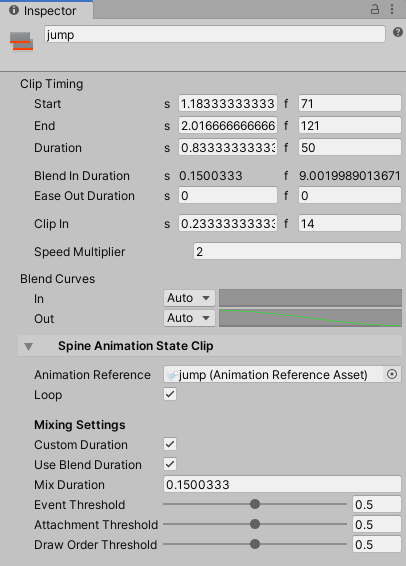
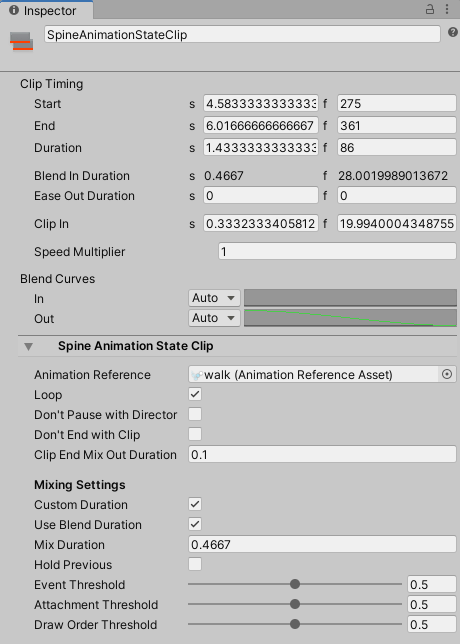
[unity] Timeline: Fixed Inspector cutting off last three parameters. Updated documentation and package version for commit a7752095. See #1933, see #1807.

diff --git a/spine-unity/Modules/com.esotericsoftware.spine.timeline/Editor/SpineAnimationStateDrawer.cs b/spine-unity/Modules/com.esotericsoftware.spine.timeline/Editor/SpineAnimationStateDrawer.cs
@@ -38,7 +38,7 @@ using Spine.Unity.Editor;
 public class SpineAnimationStateDrawer : PropertyDrawer {
 
 	public override float GetPropertyHeight (SerializedProperty property, GUIContent label) {
-		const int fieldCount = 11;
+		const int fieldCount = 15;
 		return fieldCount * EditorGUIUtility.singleLineHeight;
 	}
 

diff --git a/spine-unity/Modules/com.esotericsoftware.spine.timeline/Documentation/README.md b/spine-unity/Modules/com.esotericsoftware.spine.timeline/Documentation/README.md
@@ -1,12 +1,12 @@
 The latest version of this documentation can also be found at the [spine-unity Runtime Documentation](http://esotericsoftware.com/spine-unity#Timeline-Extension-UPM-Package) webpage.
 
-# Timeline Extension UPM Package
+## Timeline Extension UPM Package
 
 ![](timeline.png)
 
-Timeline support is provided as a separate UPM (Unity Package Manager) package. See section [Optional Extension UPM Packages](http://esotericsoftware.com/spine-unity#Optional-Extension-UPM-Packages) on how to download and install this package and section [Updating an Extension UPM Package](http://esotericsoftware.com/spine-unity#Updating-an-Extension-UPM-Package) on how to update it.
+Timeline support is provided as a separate UPM (Unity Package Manager) package. See section [Optional Extension UPM Packages](#Optional-Extension-UPM-Packages) on how to download and install this package and section [Updating an Extension UPM Package](#Updating-an-Extension-UPM-Package) on how to update it.
 
-## Spine-Unity Timeline Playables
+### Spine-Unity Timeline Playables
 
 ![](add-menu.png)
 
@@ -15,9 +15,9 @@ Spine Timeline currently provides three types of Timeline Playables:
 - `Spine AnimationState Graphic Track` *(for `SkeletonGraphic`)*,
 - `Spine Skeleton Flip Track` *(for both `SkeletonAnimation` and `SkeletonGraphic`)*.
 
-**Limitations:** currently only [SkeletonAnimation](http://esotericsoftware.com/spine-unity#SkeletonAnimation-Component) and [SkeletonGraphic](http://esotericsoftware.com/spine-unity#SkeletonGraphic-Component) are supported. There is currently no Timeline support for [SkeletonMecanim](http://esotericsoftware.com/spine-unity#SkeletonMecanim-Component).
+**Limitations:** currently only [SkeletonAnimation](#SkeletonAnimation-Component) and [SkeletonGraphic](#SkeletonGraphic-Component) are supported. There is currently no Timeline support for [SkeletonMecanim](#SkeletonMecanim-Component).
 
-### Spine AnimationState Track
+#### Spine AnimationState Track
 
 ![](animationstate-track.png)  
 
@@ -29,16 +29,24 @@ This track type can be used to set animations at the AnimationState of the targe
 - *Track Index.* The target AnimationState track index to set animations at. Do not forget to set this value accordingly when using multiple timeline tracks.
 > **Important Note:** Currently it is required to order the timeline tracks with base track at the top and overlay tracks below, otherwise the Editor Preview will display incorrect results.
 
-#### Spine Animation State Clip
+##### Spine Animation State Clip
 
-You can add a `Spine Animation State Clip` to a `Spine AnimationState Track` (or `Spine AnimationState Graphic Track`) by dragging an `AnimationReferenceAsset` onto a Timeline track. See the [SkeletonData - Preview](http://esotericsoftware.com/spine-unity#Preview) section on how to generate `AnimationReferenceAssets` for a `SkeletonDataAsset`.
+You can add a `Spine Animation State Clip` to a `Spine AnimationState Track` (or `Spine AnimationState Graphic Track`) by dragging an `AnimationReferenceAsset` onto a Timeline track. See the [SkeletonData - Preview](#Preview) section on how to generate `AnimationReferenceAssets` for a `SkeletonDataAsset`.
 
 ![](animationstate-clip-inspector.png)  
 
-**Parameters**
+**Parameters**  
+*Clip Timing*
 - *Clip In.* An initial local start time offset applied when playing this animation. Can also be adjusted by dragging the left edge of the clip.
-- *Ease In Duration.* Blend transition duration used when `Use Blend Duration` and `Custom duration` are enabled. Can be adjusted by  moving the clip into the previous clip, resulting in a cross-fade triangle at the transition.
+- *Blend In Duration.* Blend transition duration used when `Use Blend Duration` and `Custom duration` are enabled. Can be adjusted by  moving the clip into the previous clip, resulting in a cross-fade triangle at the transition.
 - *Speed Multiplier.* Playback speed multiplier. When set to 2.0 it will play the animation twice as fast, when set to 0.5 half as fast.
+
+*Spine Animation State Clip*
+- *Don't Pause with Director.* If set to true, the animation will continue playing when the Director is paused.
+- *Don't End with Clip.* Normally when empty space follows the clip on the timeline, the empty animation is set on the track. Set this parameter to  true to continue playing the clip's animation instead.
+- *Clip End Mix Out Duration.* When `Don't End with Clip` is false, and the clip is followed by blank space or stopped, the empty animation is set with this `MixDuration`. When set to a value less than 0, the clip is paused instead.
+
+*Mixing Setting*
 - *Custom duration.* When enabled, the value under `Mix Duration` below is used for transitions from the previous animation to this animation. When disabled, it will use the setup `Mix Duration` value at the SkeletonData asset for the animation pair.
 - *Use Blend Duration.* When enabled, the value under `Mix Duration` will be synced with the timeline clip transition duration 'Ease In Duration'. Enable this value to adjust transition durations by moving the clip into the previous clip, resulting in a cross-fade triangle at the transition.
 - *Mix Duration.* When *Custom duration* is enabled, this mix duration is used for transitions from the previous animation to this animation.
@@ -46,35 +54,36 @@ You can add a `Spine Animation State Clip` to a `Spine AnimationState Track` (or
 - *Attachment Threshold.* See [TrackEntry.AttachmentThreshold](http://esotericsoftware.com/spine-api-reference#TrackEntry-attachmentThreshold).
 - *Draw Order Threshold.* See [TrackEntry.DrawOrderThreshold](http://esotericsoftware.com/spine-api-reference#TrackEntry-drawOrderThreshold).
 
-**Ignored Parameters**  
+*Ignored Parameters*
 - *Ease Out Duration, Blend Curves*. These parameters are ignored and have no effect.
 
 **Usage**
 1. Add `SkeletonAnimationPlayableHandle` component to your SkeletonAnimation GameObject, or the `SkeletonGraphicPlayableHandle` in case of `SkeletonGraphic`.
 2. With an existing Unity Playable Director, and in the Unity Timeline window, right-click on an empty space on the left and choose `Spine.Unity.Playables` - `Spine Animation State Track`.
 3. Drag the SkeletonAnimation or SkeletonGraphic GameObject onto the empty reference property of the new Spine AnimationState Track.
-4. To add an animation at a track, drag the respective [`AnimationReferenceAsset`](http://esotericsoftware.com/spine-unity#Preview) into the clips view (the right part of the Timeline panel) as you would with normal animation clips.
+4. To add an animation at a track, drag the respective [`AnimationReferenceAsset`](#Preview) into the clips view (the right part of the Timeline panel) as you would with normal animation clips.
 
-See spine-unity Runtime Documentation, [section Preview](http://esotericsoftware.com/spine-unity#Preview) on how to create an `AnimationReferenceAsset` for each of your animations.
+See spine-unity Runtime Documentation, [section Preview](#Preview) on how to create an `AnimationReferenceAsset` for each of your animations.
 
 > **Note:** You can use the Duplicate function (`CTRL`/`CMD` + `D`) to duplicate selected clips in the clips view.
 
 **Track Behavior**
-- `AnimationState.SetAnimation` will be called at the beginning of every clip based on the `AnimationReferenceAsset`.
-- Clip durations don't matter. Animations won't be cleared where there is no active clip at certain slices of time.
+- `AnimationState.SetAnimation()` will be called at the beginning of every clip based on the `AnimationReferenceAsset`.
+- Clip durations matter since Timeline version 4.0.
+	> Note: Behaviour of version 3.8 was that clip durations don't matter. Animations were not cleared when reaching empty space after a clip on the timeline.
 - Empty animation: If a clip has no `AnimationReferenceAsset` assigned, it will call `SetEmptyAnimation` instead.
 - Error handling: If the animation with the provided `AnimationReferenceAsset` is not found, it will do nothing (the previous animation will continue playing normally).
 - Animations playing before the timeline starts playing will not be interrupted until the first clip starts playing.
-- At the end of the last clip and at the end of the timeline, nothing happens. This means the effect of the last clip's `SetAnimation` call will persist until you issue other calls at the AnimationState.
+- What happens at the end of clips and at the end of the timeline depends on clip settings. When `Don't End with Clip` is true, nothing happens at the clip's end. This means the effect of the last clip's `SetAnimation` call will persist until you issue other calls at the AnimationState. If `Don't End with Clip` is false, it will be mix out to the empty animation with duration `Clip End Mix Out Duration`, or paused when `Clip End Mix Out Duration` is less than 0.
 - Edit mode preview mixing may look different from Play Mode mixing. Please check in actual Play Mode to see the actual results. Please see the remark in the  [Spine AnimationState Track](#Spine-AnimationState-Track) section on correct track ordering when previewing multiple overlaid tracks.
 
-### Spine Skeleton Flip Track
+#### Spine Skeleton Flip Track
 
 ![](skeleton-flip-track.png)  
 
 This track type can be used to flip the skeleton of the target `SkeletonAnimation` or `SkeletonGraphic`.
 
-#### Spine Skeleton Flip Clip
+##### Spine Skeleton Flip Clip
 
 ![](skeleton-flip-clip-inspector.png)  
 
@@ -93,8 +102,5 @@ This track type can be used to flip the skeleton of the target `SkeletonAnimatio
 - The specified skeleton flip values will be applied for every frame within the duration of each track.
 - At the end of the timeline, the track will revert the skeleton flip to the flip values it captures when it starts playing that timeline. 
 
-### Known Issues
+#### Known Issues
 - The Console potentially logs an incorrect and harmless error `DrivenPropertyManager has failed to register property "m_Script" of object "Spine GameObject (spineboy-pro)" with driver "" because the property doesn't exist.`. This is a known issue on Unity's end. See more here: https://forum.unity.com/threads/default-playables-text-switcher-track-error.502903/
-- These Spine Tracks (like other custom Unity Timeline Playable types) do not have labels on them. Unity currently doesn't have API to specify their labels yet.
-- Each track clip currently requires you to specify a reference to SkeletonData so its inspector can show you a convenient list of animation names. This is because track clips are agnostic of its track and target component/track binding, and provides no way of automatically finding it while in the editor. The clips will still function correctly without the SkeletonDataAsset references; you just won't get the dropdown of animation names in the editor.
-- Each track clip cannot be automatically named based on the chosen animationName. The Timeline object editors currently doesn't provide access to the clip names to do this automatically.

diff --git a/CHANGELOG.md b/CHANGELOG.md
@@ -106,7 +106,7 @@
   * **Corrected all `Outline` shaders outline thickness** when `Advanced - Sample 8 Neighbourhood` is disabled (thus using `4 Neighbourhood`). Previously weighting was incorrectly thick (4x as thick) compared to 8 neighbourhood, now it is more consistent. This might require adjustment of all your outline materials where `Sample 8 Neighbourhood` is disabled to restore the previous outline thickness, by adjusting the `Outline Threshold` parameter through adding a `/4` to make the threshold 4 times smaller.
   * Reverted changes: `BoneFollower` property `followLocalScale` has intermediately been renamed to `followScale` but was renamed back to `followLocalScale`. Serialized values (scenes and prefabs) will automatically be upgraded, only code accessing `followScale` needs to be adapted.
   * Fixed Timeline not pausing (and resuming) clip playback on Director pause, this is now the default behaviour. If you require the old behaviour (e.g. to continue playing an idle animation during Director pause), there is now an additional parameter `Don't Pause with Director` provided that can be enabled for each Timeline clip.
-  * Timeline clips now also offer a `Don't Pause on Stop` parameter in addition to `Don't Pause with Director` for partially keeping old pause behaviour. This allows to continue playback after the Graph has stopped (when the Track has ended) when `Don't Pause with Director` is disabled. When `Don't Pause with Director` is enabled, this parameter has no effect.
+  * Fixed Timeline `Spine AnimationState Clips` ignoring empty space on the Timeline after a clip's end. Timeline clips now also offer `Don't End with Clip` and `Clip End Mix Out Duration` parameters if you prefer the old behaviour of previous versions. By default when empty space follows the clip on the timeline, the empty animation is set on the track with a MixDuration of `Clip End Mix Out Duration`. Set `Don't End with Clip` to true to continue playing the clip's animation instead and mimic the old 3.8 behaviour. If you prefer pausing the animation instead of mixing out to the empty animation, set `Clip End Mix Out Duration` to a value less than 0, then the animation is paused instead.
   
 * **Additions**
   * Additional **Fix Draw Order** parameter at SkeletonRenderer, defaults to `disabled` (previous behaviour).
@@ -153,7 +153,7 @@
   * `SkeletonRagdoll` and `SkeletonRagdoll2D` now support bone scale at any bone in the skeleton hierarchy. This includes negative scale and root bone scale.
   * `Attachment.GetRemappedClone(Sprite)` method now provides an additional optional parameter `useOriginalRegionScale`. When set to `true`, the replaced attachment's scale is used instead of the Sprite's `Pixel per Unity` setting, allowing for more consistent scaling. *Note:* When remapping Sprites, be sure to set the Sprite's `Mesh Type` to `Full Rect` and not `Tight`, otherwise the scale will be wrong.
   * `SkeletonGraphic` now **supports all Slot blend modes** when `Advanced - Multiple Canvas Renderers` is enabled in the Inspector. The `SkeletonGraphic` Inspector now provides a `Blend Mode Materials` section where you can assign `SkeletonGraphic` materials for each blend mode, or use the new default materials. New `SkeletonGraphic` shaders and materials have been added for each blend mode. The `BlendModes.unity` example scene has been extended to demonstrate this new feature. For detailed information see the [`SkeletonGraphic documentation page`](http://esotericsoftware.com/spine-unity#Parameters).
-  * Timeline clips now also offer a `Don't Pause on Stop` parameter in addition to `Don't Pause with Director` for partially keeping old pause behaviour. This allows to continue playback after the Graph has stopped (when the Track has ended) when `Don't Pause with Director` is disabled. When `Don't Pause with Director` is enabled, this parameter has no effect.
+  * Timeline clips now also offer `Don't End with Clip` and `Clip End Mix Out Duration` parameters. By default when empty space follows the clip on the timeline, the empty animation is set on the track with a MixDuration of `Clip End Mix Out Duration`. Set `Don't End with Clip` to true to continue playing the clip's animation instead and mimic the old 3.8 behaviour. If you prefer pausing the animation instead of mixing out to the empty animation, set `Clip End Mix Out Duration` to a value less than 0, then the animation is paused instead.
 
 * **Changes of default values**
 
